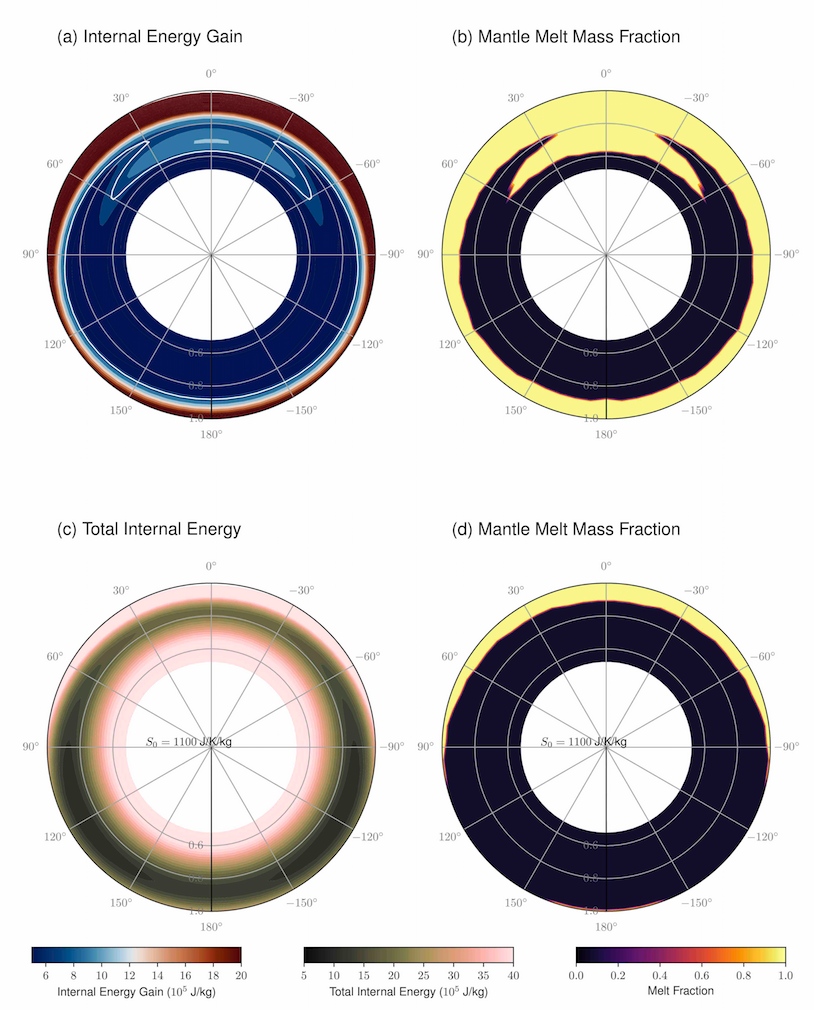
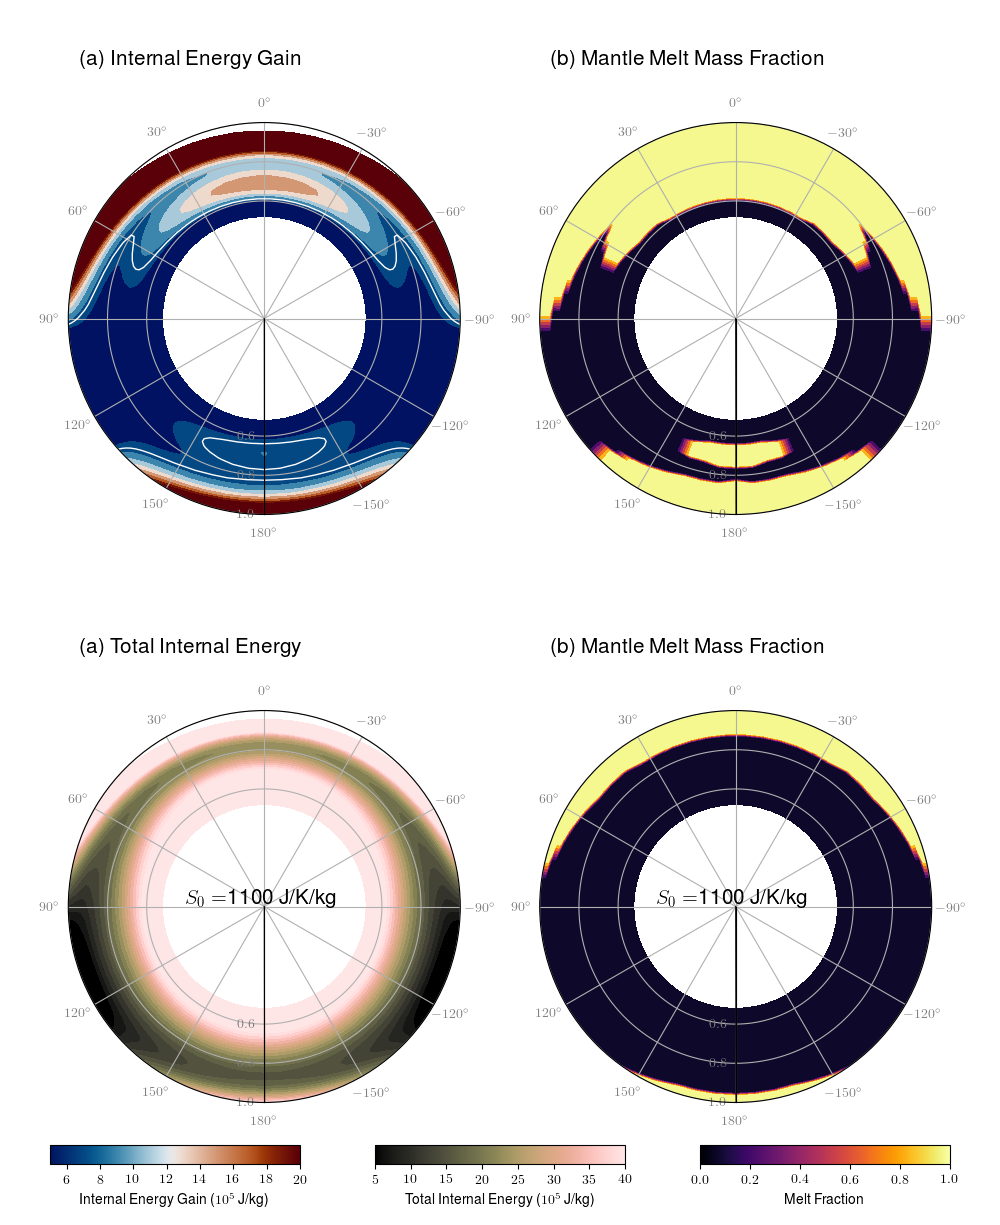
Updated model (consistent with the revision #2)

Changed region(s): [[0.0307, 0.0307, 0.9828, 0.4604], [0.3686, 0.5218, 0.9828, 1.0], [0.0307, 0.5218, 0.4914, 1.0]]

diff --git a/melt_model.py b/melt_model.py
@@ -9,6 +9,10 @@ from matplotlib import rc
 import matplotlib as mpl
 from scipy.interpolate import interp1d
 
+
+rc('font',**{'family':'sans-serif','sans-serif':['Helvetica']})
+rc('text', usetex=True)
+
 # TODO
 # magma ocean depth is fixed at psi = 0
 
@@ -276,10 +280,10 @@ class Model:
 
         ax[0].text(np.pi / 5, 1.6, '(a) Internal Energy Gain', fontsize=15, color="black")
         ax[1].text(np.pi / 5, 1.6, '(b) Mantle Melt Mass Fraction', fontsize=15, color="black")
-        ax[2].text(np.pi / 5, 1.6, '(c) Total Internal Energy', fontsize=15, color="black")
-        ax[3].text(np.pi / 5, 1.6, '(d) Mantle Melt Mass Fraction', fontsize=15, color="black")
-        ax[2].text(np.pi / 2, 0.4, '$S_0=$' + str(self.entropy0) + ' J/K/kg', fontsize=10, color="black")
-        ax[3].text(np.pi / 2, 0.4, '$S_0=$' + str(self.entropy0) + ' J/K/kg', fontsize=10, color="black")
+        ax[2].text(np.pi / 5, 1.6, '(a) Total Internal Energy', fontsize=15, color="black")
+        ax[3].text(np.pi / 5, 1.6, '(b) Mantle Melt Mass Fraction', fontsize=15, color="black")
+        ax[2].text(np.pi / 2, 0.4, '$S_0=$' + str(self.entropy0) + ' J/K/kg', fontsize=15, color="black")
+        ax[3].text(np.pi / 2, 0.4, '$S_0=$' + str(self.entropy0) + ' J/K/kg', fontsize=15, color="black")
 
         # color bars
         cNorm = mpl.colors.Normalize(vmin=5, vmax=20)
@@ -309,8 +313,8 @@ class Model:
 
         fig1.subplots_adjust(left=left, bottom=bottom, right=right, top=top, wspace=wspace, hspace=hspace)
 
-        plt.show()
-        plt.close()
+        #plt.show()
+        #plt.close()
 
         if save:
             fig1.savefig(self.outputfigurename)
@@ -369,6 +373,7 @@ class Model:
         critical_velocity = self.__v_cr((Mt - Mi) / (Mt + Mi),
                                         ang)  # critical velocity (Genda et al 2012). See equation 16 in our paper
 
+
         if self.vel <= critical_velocity:  # merging
             Mantle_mass_model = para0[10] * self.__legendre(0, np.cos(ang)) + para0[11] * self.__legendre(1, np.cos(ang))
             # mantle mass fitting model at vimp=vesc. See Equation 7
@@ -378,13 +383,14 @@ class Model:
                 2] * self.__legendre(2, np.cos(ang))  # fitting model
             ee = para0[3:10] 
         else:  # no merging
-            Mantle_mass_model = self.__Mantle_mass_model_highV(targetmassfraction,
-                                                               ang)  # mantle mass fitting model at vimp>1.1vesc. See Equation 8
+            Mantle_mass_model = Mt/(Mi + Mt)
             h_model = para1[0] * self.__legendre(0, np.cos(ang)) + para1[1] * self.__legendre(1, np.cos(ang)) + para1[
                 # mantle heating partitioning model at vimp>1.1vesc.  See Equation 6
                 2] * self.__legendre(2, np.cos(ang))  # fitting model
             ee = para1[3:10]
 
+
+            
 
 
         IE_model = ee[0] * self.__legendre(0, np.cos(ang)) + ee[1] * self.__legendre(1, np.cos(ang)) + ee[
@@ -500,6 +506,7 @@ class Model:
                 totalV = totalV + dV
                 
                 Press = r_P_function(self.rr[m])
+                
                 #Tmelt = (2500.0 + 26.0 * Press * 1e-9 - 0.052 * (Press * 1e-9) ** 2.0) * 1000.0 #Solomatov & Stevenson model. 1000 represents Cv
 
                 if Press*1e-9 < 24.0: #Rubie et al., (2015) melt model
@@ -553,18 +560,24 @@ class Model:
         Pmax_meltpool_model_min_sd = self.__compute_pressure(Mplanet, rmax_meltpool_model_min_sd)        
         
         # assuming the same melt volume as the melt pool
-        rmax_global_model = (1.0 - meltV/(4.0/3.0*np.pi))**0.3333
-        rmax_global_model_max_sd = (1.0 - meltV_max_sd/(4.0/3.0*np.pi))**0.3333
-        rmax_global_model_min_sd = (1.0 - meltV_min_sd/(4.0/3.0*np.pi))**0.3333
+        rmax_global_model = max(rcore, (1.0 - meltV/(4.0/3.0*np.pi))**0.3333)
+        rmax_global_model_max_sd = max(rcore, (1.0 - meltV_max_sd/(4.0/3.0*np.pi))**0.3333)
+        rmax_global_model_min_sd = max(rcore, (1.0 - meltV_min_sd/(4.0/3.0*np.pi))**0.3333)
+
         
         Pmax_global_model = self.__compute_pressure(Mplanet, rmax_global_model)
         Pmax_global_model_max_sd = self.__compute_pressure(Mplanet, rmax_global_model_max_sd)
         Pmax_global_model_min_sd = self.__compute_pressure(Mplanet, rmax_global_model_min_sd)        
+
+
+        Pcmb = self.__compute_pressure(Mplanet, rcore)
+
         
         # assuming the conventional melt model (Eq 4)
-        rmax_conventional_model = (1.0 - f_model * totalV/(4.0/3.0*np.pi))**0.3333
-        rmax_conventional_model_max_sd = (1.0 - (f_model + f_model_std) * totalV/(4.0/3.0*np.pi))**0.3333
-        rmax_conventional_model_min_sd = (1.0 - (f_model - f_model_std) * totalV/(4.0/3.0*np.pi))**0.3333        
+
+        rmax_conventional_model = max(rcore, (1.0 - f_model * totalV/(4.0/3.0*np.pi))**0.3333)
+        rmax_conventional_model_max_sd = max(rcore, (1.0 - min(1.0,(f_model + f_model_std)) * totalV/(4.0/3.0*np.pi))**0.3333)
+        rmax_conventional_model_min_sd = max(rcore, (1.0 - max(0.0,(f_model - f_model_std)) * totalV/(4.0/3.0*np.pi))**0.3333)
         
         Pmax_conventional_model = self.__compute_pressure(Mplanet, rmax_conventional_model)
         Pmax_conventional_model_max_sd = self.__compute_pressure(Mplanet, rmax_conventional_model_max_sd)
@@ -588,8 +601,6 @@ class Model:
               + ", -" +  str(float("{0:.2f}".format(rplanet * 1e-3 *  (rmax_global_model_min_sd - rmax_global_model))))               
               + ") km, "
               +  str(float("{0:.2f}".format(Pmax_global_model))) + "(+" +  str(float("{0:.2f}".format(Pmax_global_model_max_sd-Pmax_global_model))) +', -' +  str(float("{0:.2f}".format(Pmax_global_model-Pmax_global_model_min_sd))) + ") GPa")
-
-
         
         print("magma ocean depth and pressure for a conventional model: " +  str(float("{0:.2f}".format(
             rplanet * 1e-3 * (1.0 - rmax_conventional_model))))
@@ -609,19 +620,24 @@ class Model:
             "planetary mass": Mplanet,
             "core radius": rcore,
             "max depth (global model) (km)": rplanet * 1e-3 * (1.0 - rmax_global_model),
-            "max pressure (global model)": Pmax_global_model,
+            "max pressure (global model)": [Pmax_global_model,Pmax_global_model_max_sd-Pmax_global_model, -(Pmax_global_model-Pmax_global_model_min_sd)],         
             "max depth (conventional model) (km)": rplanet * 1e-3 * (1.0 - rmax_conventional_model),
-            "max pressure (conventional model)": Pmax_conventional_model,
+            "max pressure (conventional model)": [Pmax_conventional_model, Pmax_conventional_model_max_sd-Pmax_conventional_model, -(Pmax_conventional_model-Pmax_conventional_model_min_sd)],
             "max depth (melt pool model) (km)": rplanet * 1e-3 * (1.0 - rmax_meltpool_model),
-            "max pressure (melt pool model)": Pmax_meltpool_model,
+            "max pressure (melt pool model)": [Pmax_meltpool_model, Pmax_meltpool_model_max_sd-Pmax_meltpool_model, -(Pmax_meltpool_model-Pmax_meltpool_model_min_sd)],            
             "melt fraction": f_model,
-            "melt volume": meltV,
+            "rmax conventional" : rmax_conventional_model, 
+            "melt model": meltV/totalV,
+            "core mantle boundary pressure": Pcmb,
             "total volume": totalV,
             "internal energy": self.du,
             "average internal energy": u_ave,
             "internal energy gain": self.du_gain,
             "internal energy of the melt (considering initial temperature profile)": self.du_melt,
-            "internal energy of the melt (not considering initial temperature profile)": self.du_gain_melt
+            "internal energy of the melt (not considering initial temperature profile)": self.du_gain_melt,
+            "normalized depth (melt pool model)": [1.0-rmax_meltpool_model, rmax_meltpool_model_min_sd - rmax_meltpool_model,  rmax_meltpool_model_max_sd -rmax_meltpool_model],            
+            "normalized depth (global model)": [1.0 - rmax_global_model, rmax_global_model_min_sd - rmax_global_model,  rmax_global_model_max_sd -rmax_global_model],
+            "normalized depth (conventional model)": [1.0 - rmax_conventional_model,rmax_conventional_model_min_sd - rmax_conventional_model,  rmax_conventional_model_max_sd -rmax_conventional_model],            
         }
 
         return d

diff --git a/example.py b/example.py
@@ -1,6 +1,5 @@
 from melt_model import Model
 
-m = Model(Mtotal=8.9, gamma=0.09, vel=1.0, entropy0=1100, impact_angle=90, outputfigurename="output.eps", use_tex=False)
+m = Model(Mtotal=8.9, gamma=0.09, vel=1.0, entropy0=1100, impact_angle=90, outputfigurename="output.png", use_tex=False)
 resp = m.run_model()
-#print(resp)
-m.plot_model(save=False)
+m.plot_model(save=True)
